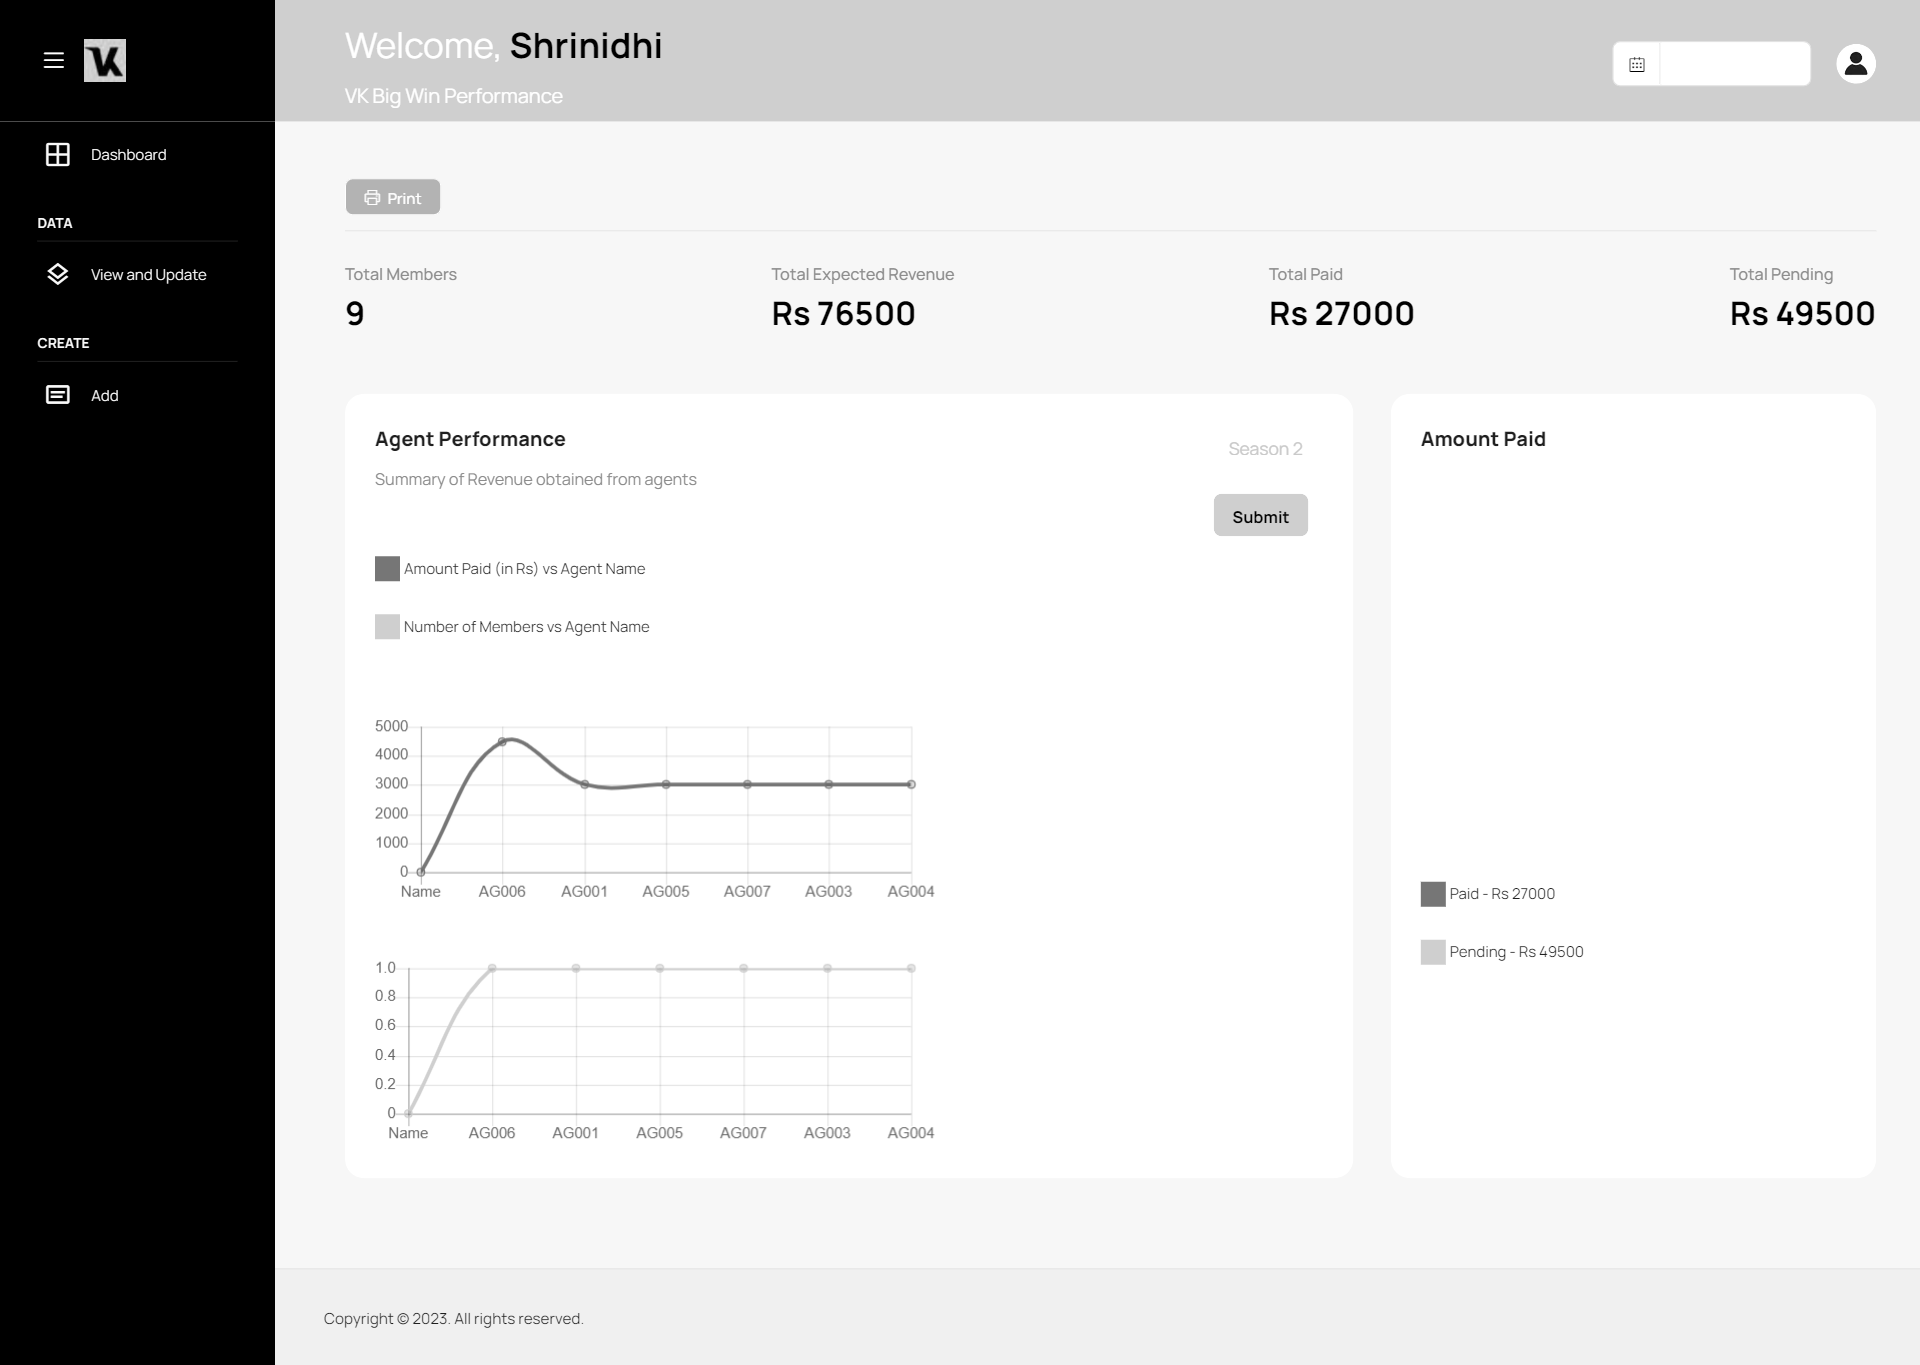
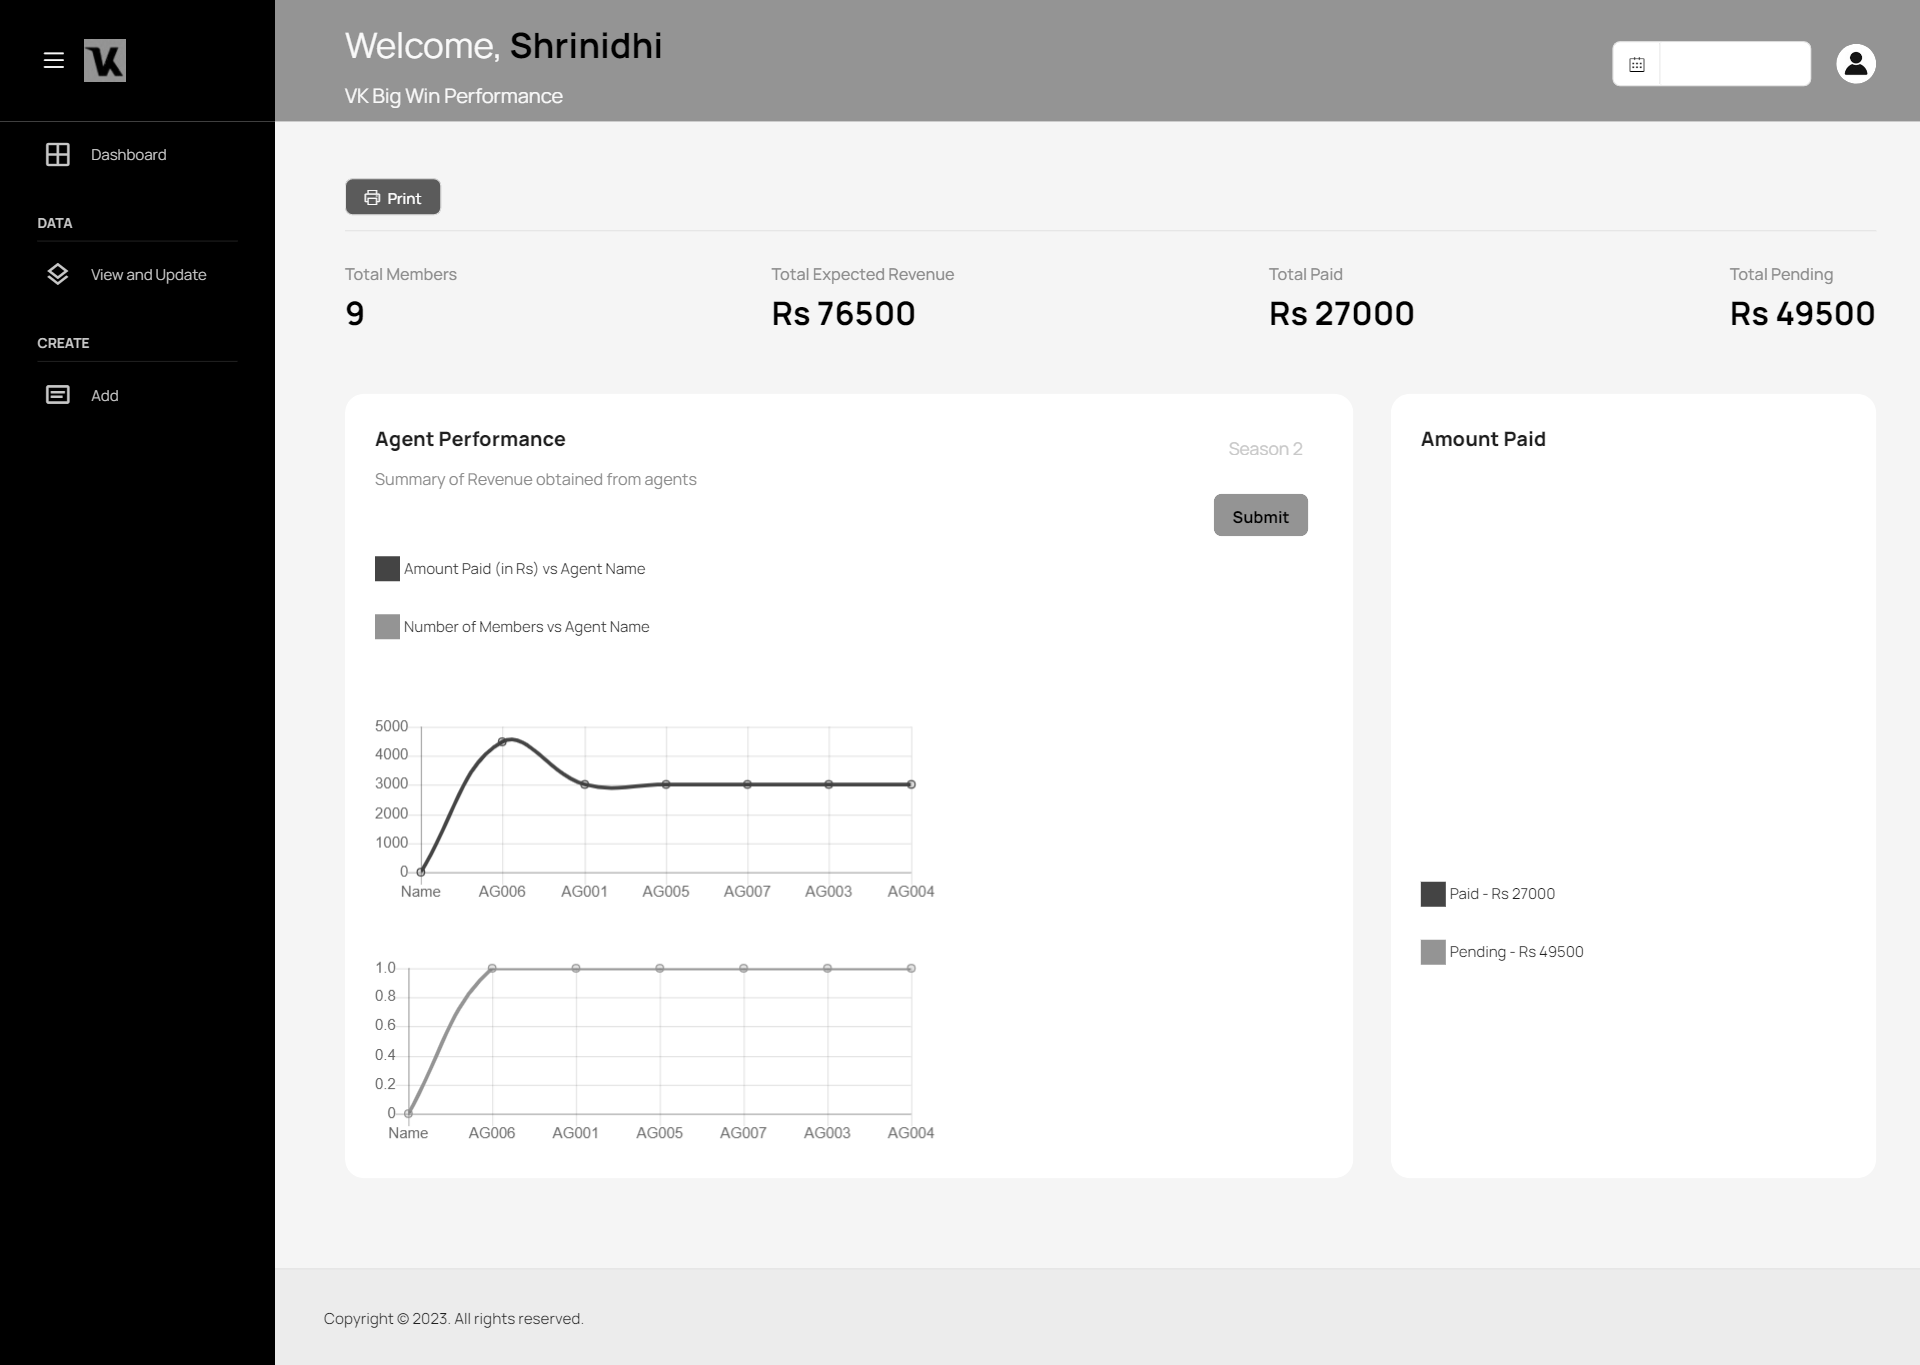
.

diff --git a/color.py b/color.py
@@ -1,0 +1,14 @@
+import cv2
+import numpy as np
+
+image = cv2.imread('grey.png')
+m=len(image)
+n=len(image[0])
+o=len(image[0][0])
+for i in range(m):
+    for j in range(n):
+        temp=image[i][j][0]*3
+        image[i][j][0]=temp*0.2126
+        image[i][j][1]=temp*0.587
+        image[i][j][2]=temp*0.0722
+cv2.imwrite("color.png", image)

diff --git a/greyscale.py b/greyscale.py
@@ -7,7 +7,7 @@ n=len(image[0])
 o=len(image[0][0])
 for i in range(m):
     for j in range(n):
-        temp=max([image[i][j][0], image[i][j][1], image[i][j][2]])
+        temp=0.299*image[i][j][0]+0.587*image[i][j][1]+0.114*image[i][j][2]
         image[i][j][0]=temp
         image[i][j][1]=temp
         image[i][j][2]=temp
